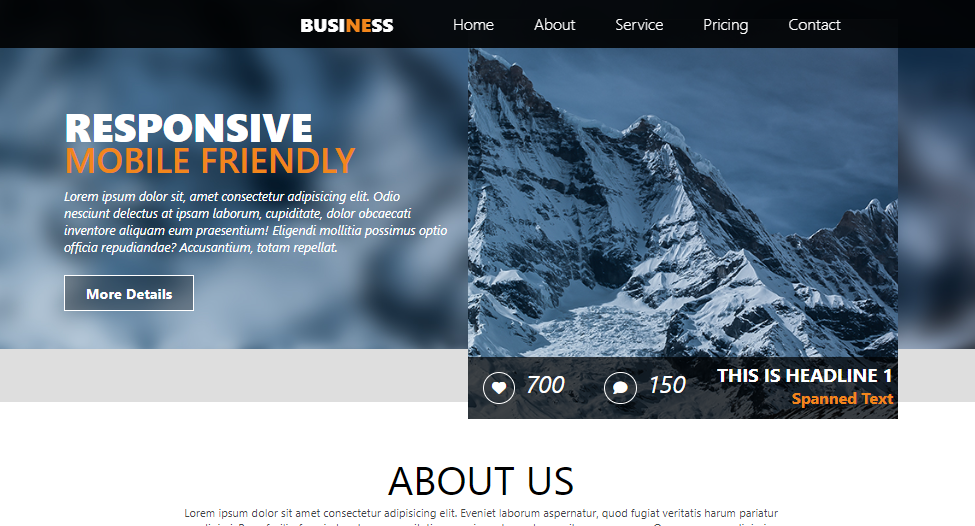
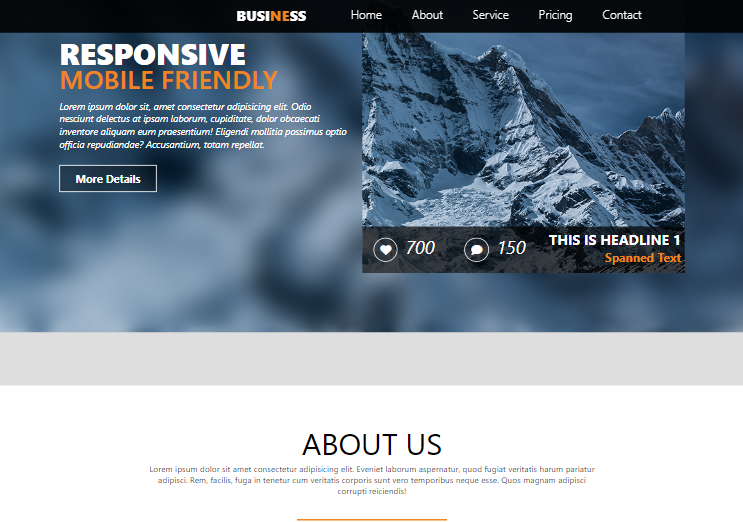
add new img

diff --git a/style/style.css b/style/style.css
@@ -163,7 +163,7 @@ i {
 /*         start section one          */
 /* ---------------------------------- */
 #sec1 {
-  margin-top: 75px;
+  /* margin-top: 75px; */
   /* height: 100vh; */
   display: flex;
   justify-content: center;
@@ -171,6 +171,7 @@ i {
   /* align-items: center; */
 }
 #sec1 .container {
+  margin-top: 70px;
   display: flex;
   justify-content: center;
   flex-wrap: wrap;
